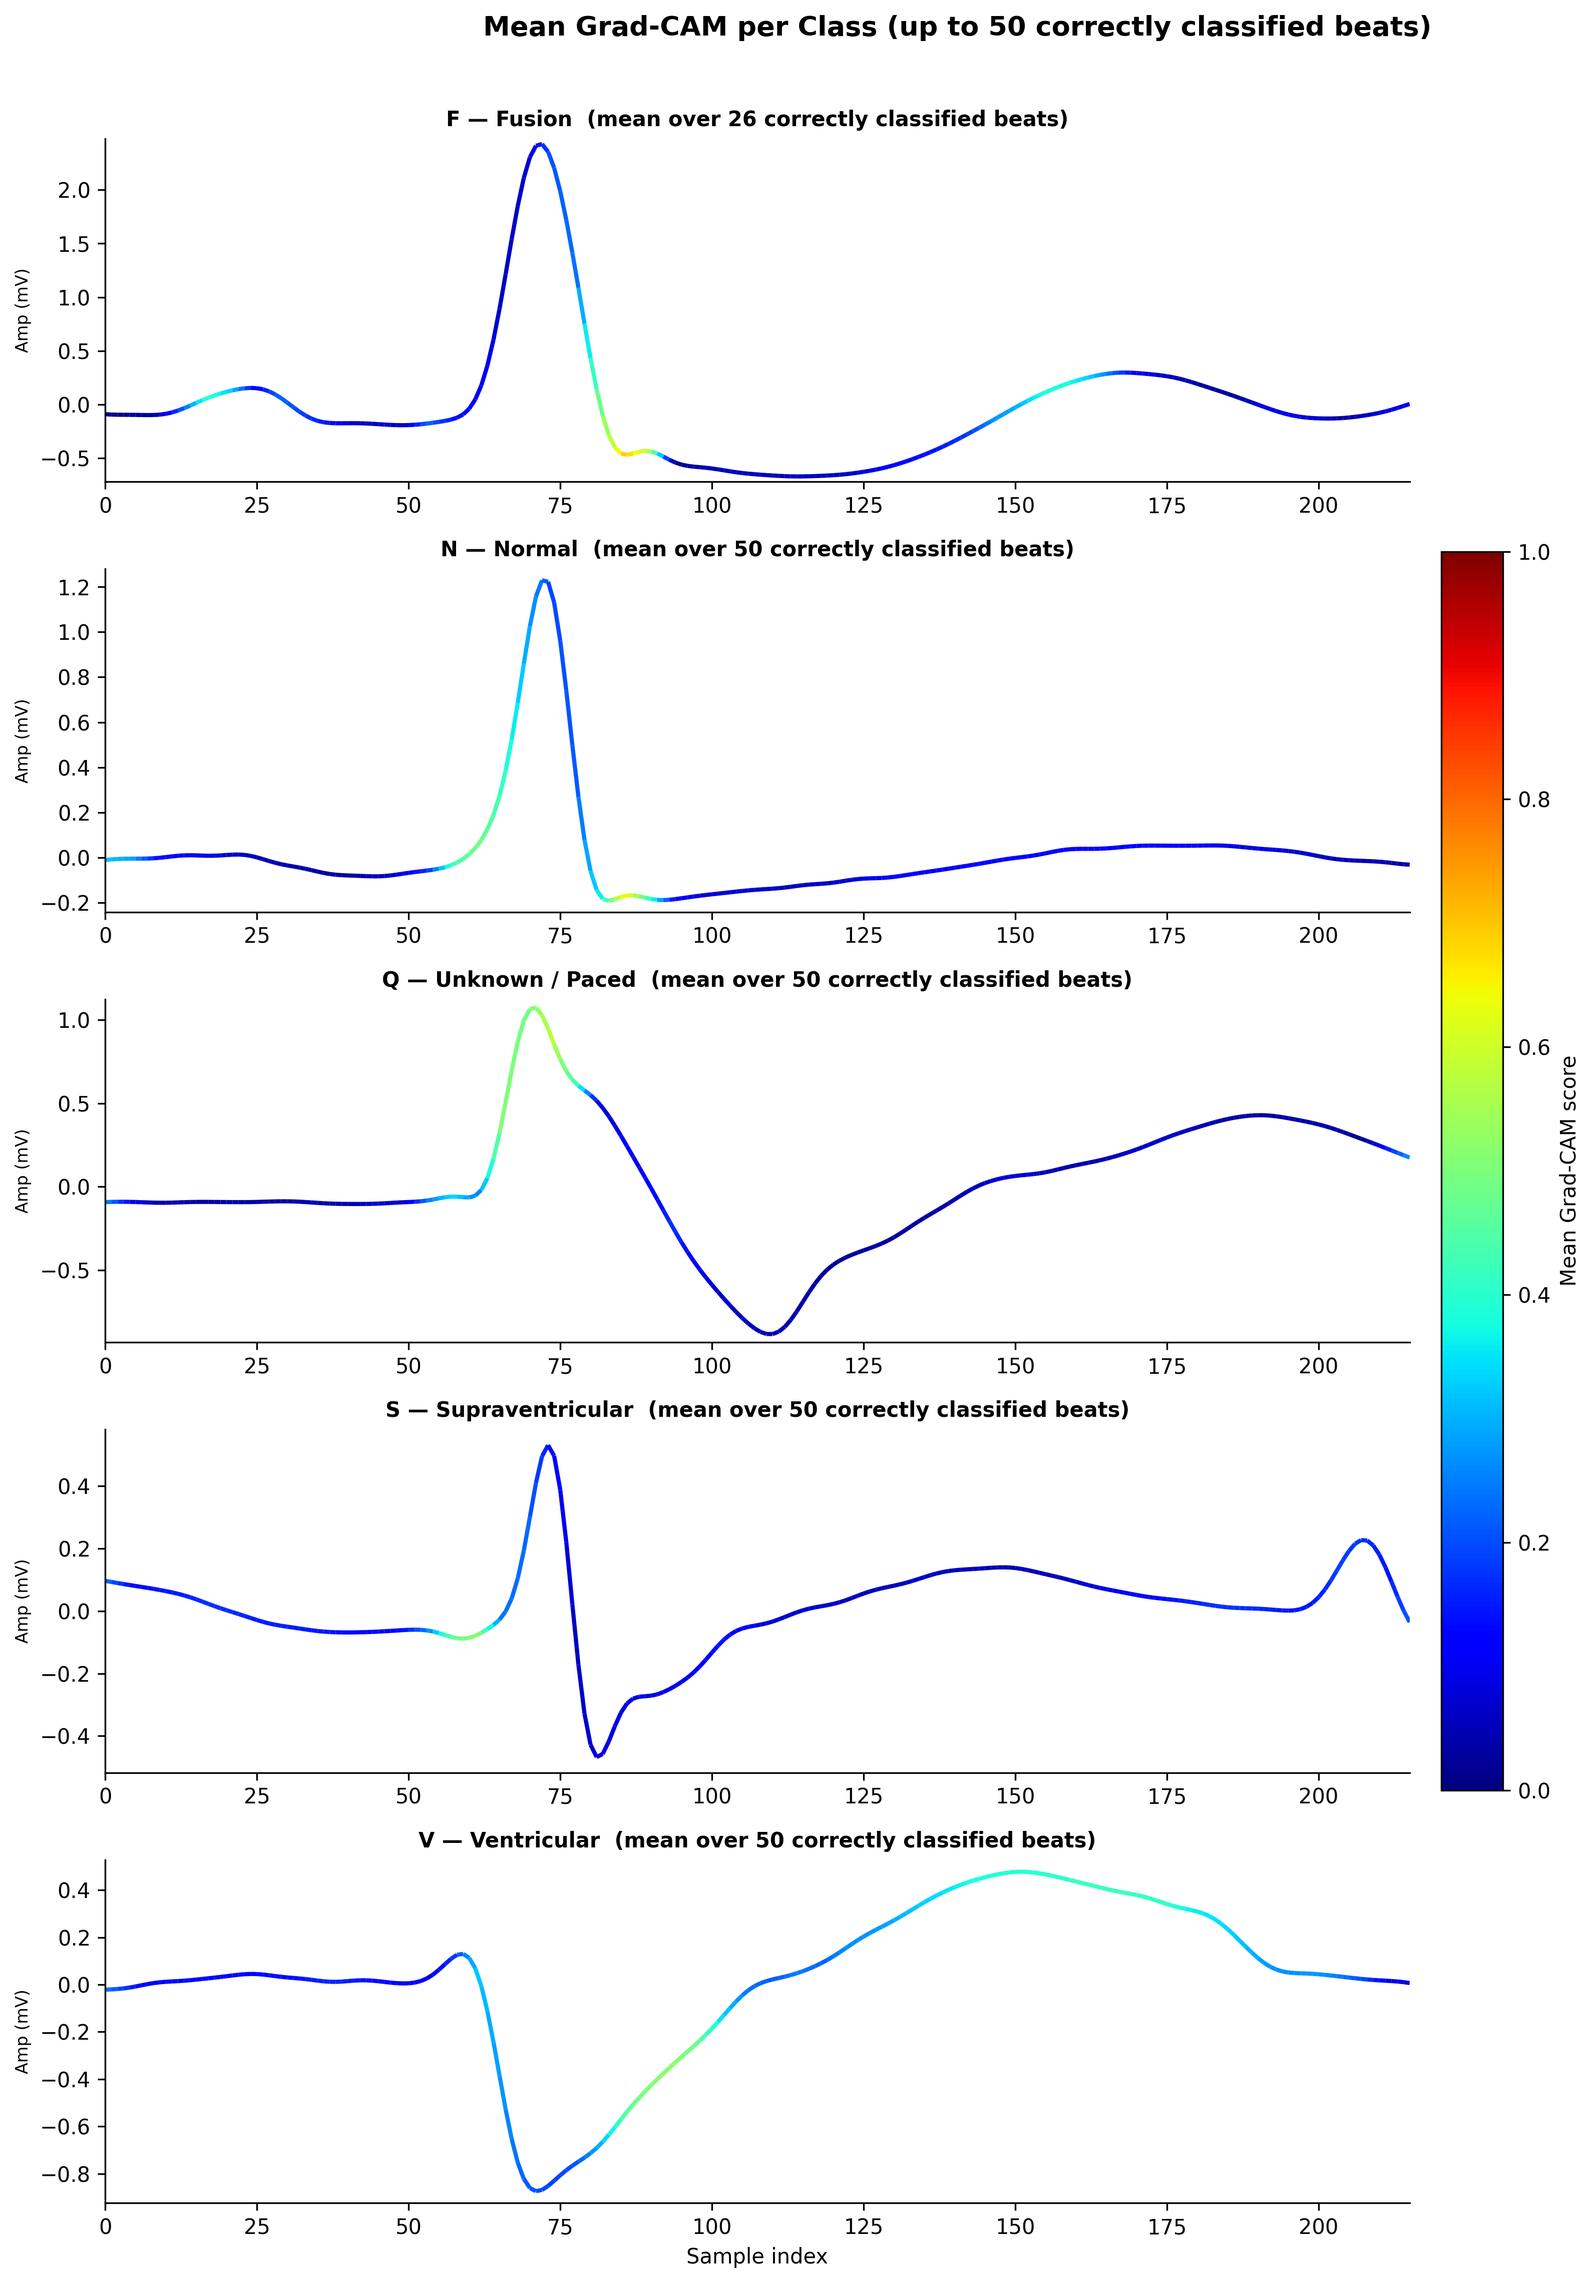
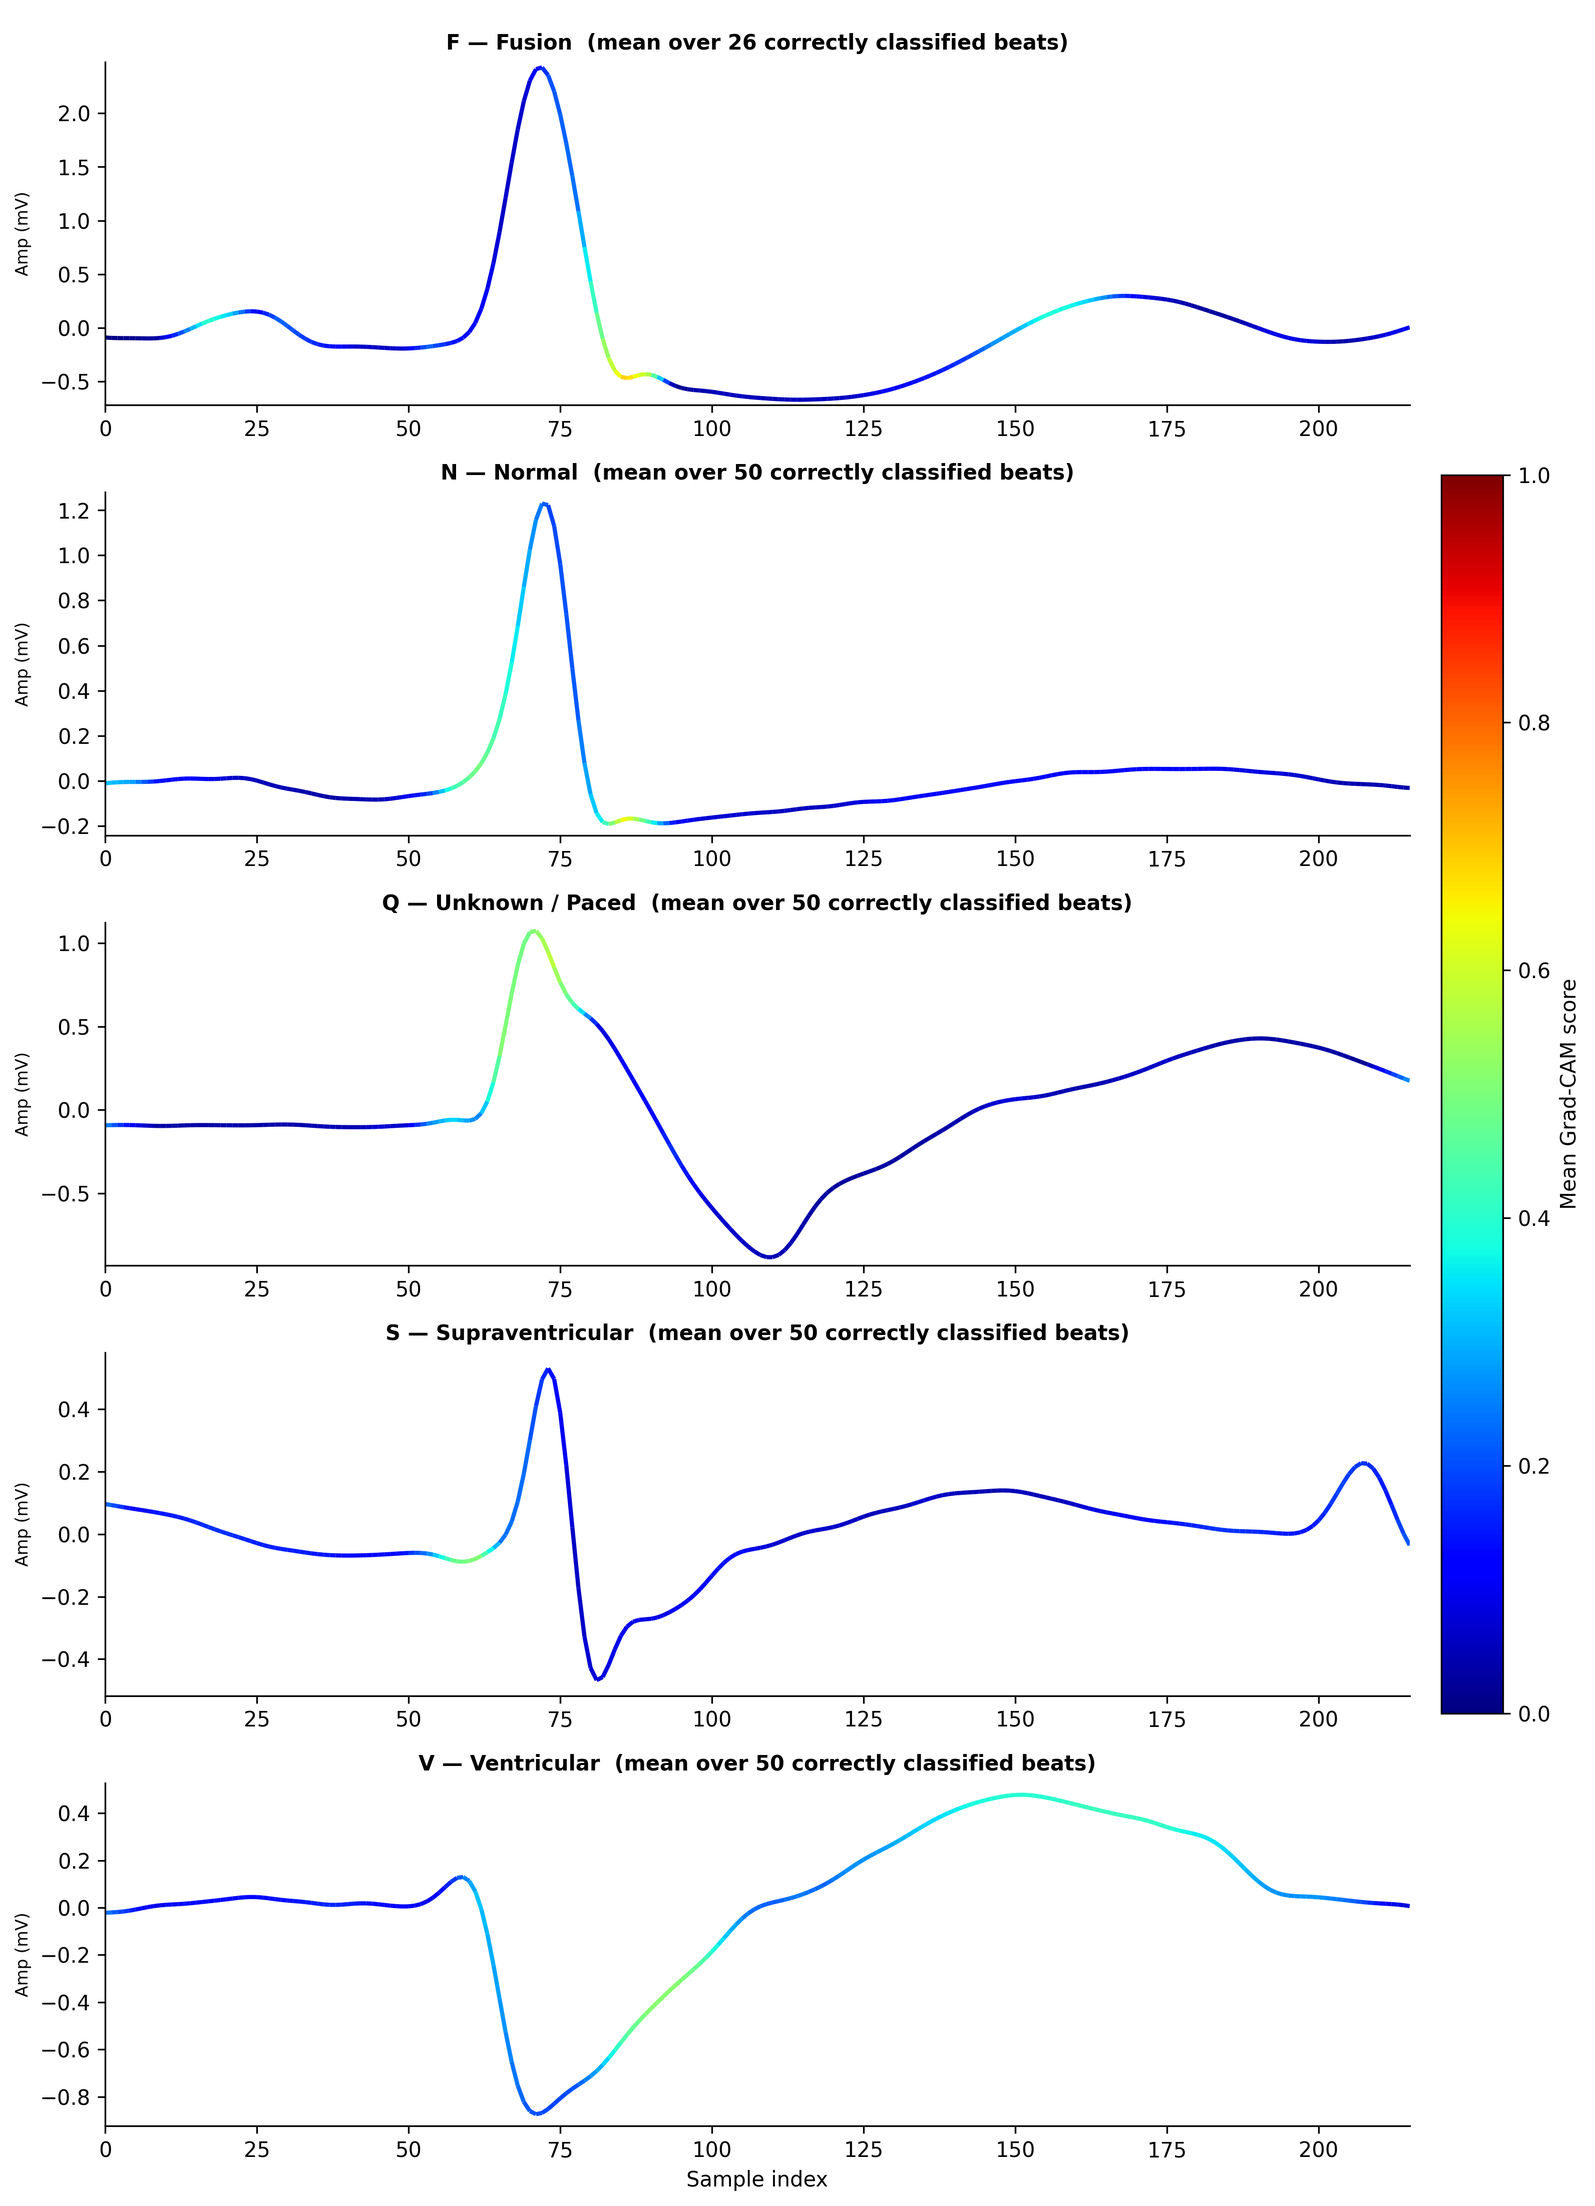
Updated the app with pan thompkins algorithm

diff --git a/app/app.py b/app/app.py
@@ -61,13 +61,41 @@ def bandpass_filter(signal: np.ndarray, fs: int = SAMPLING_RATE,
 
 def detect_rpeaks(signal: np.ndarray, fs: int = SAMPLING_RATE) -> np.ndarray:
     """
-    Simple R-peak detector using scipy find_peaks.
-    Works on a filtered signal. Returns sample indices.
+    Robust R-peak detector implementing the core Pan-Tompkins steps.
+    Assumes the signal is already bandpass filtered (Step 1).
     """
-    min_distance = int(0.3 * fs)          # minimum 300 ms between beats (~200 BPM max)
-    height       = np.mean(signal) + 0.3 * np.std(signal)
-    peaks, _     = find_peaks(signal, distance=min_distance, height=height)
-    return peaks
+    # Step 2: Derivative (Highlights steep QRS slopes)
+    derivative = np.gradient(signal)
+    
+    # Step 3: Squaring (Amplifies QRS, suppresses P/T waves)
+    squared = derivative ** 2
+    
+    # Step 4: Moving Average Integration (Creates smooth 'lumps' over QRS)
+    # Window size is typically 150ms
+    window_size = int(0.150 * fs)
+    integrated = np.convolve(squared, np.ones(window_size)/window_size, mode='same')
+    
+    # Step 5: Adaptive Thresholding & Peak Finding
+    # We find peaks on the smooth 'integrated' signal
+    min_distance = int(0.3 * fs)  # minimum 300 ms between beats
+    # Dynamic threshold: mean + 0.5 * std of the integrated signal
+    threshold = np.mean(integrated) + 0.5 * np.std(integrated)
+    
+    peaks, _ = find_peaks(integrated, distance=min_distance, height=threshold)
+    
+    # Note: 'peaks' currently point to the center of the integrated lump.
+    # To find the exact peak on the original filtered signal, we search a small
+    # window around each detected lump.
+    exact_peaks = []
+    search_radius = int(0.05 * fs) # 50ms search radius
+    for p in peaks:
+        start = max(0, p - search_radius)
+        end = min(len(signal), p + search_radius)
+        # Find the max index within this local window
+        exact_peak = start + np.argmax(signal[start:end])
+        exact_peaks.append(exact_peak)
+        
+    return np.array(exact_peaks)
 
 def segment_beats(signal: np.ndarray, r_peaks: np.ndarray) -> tuple:
     """
